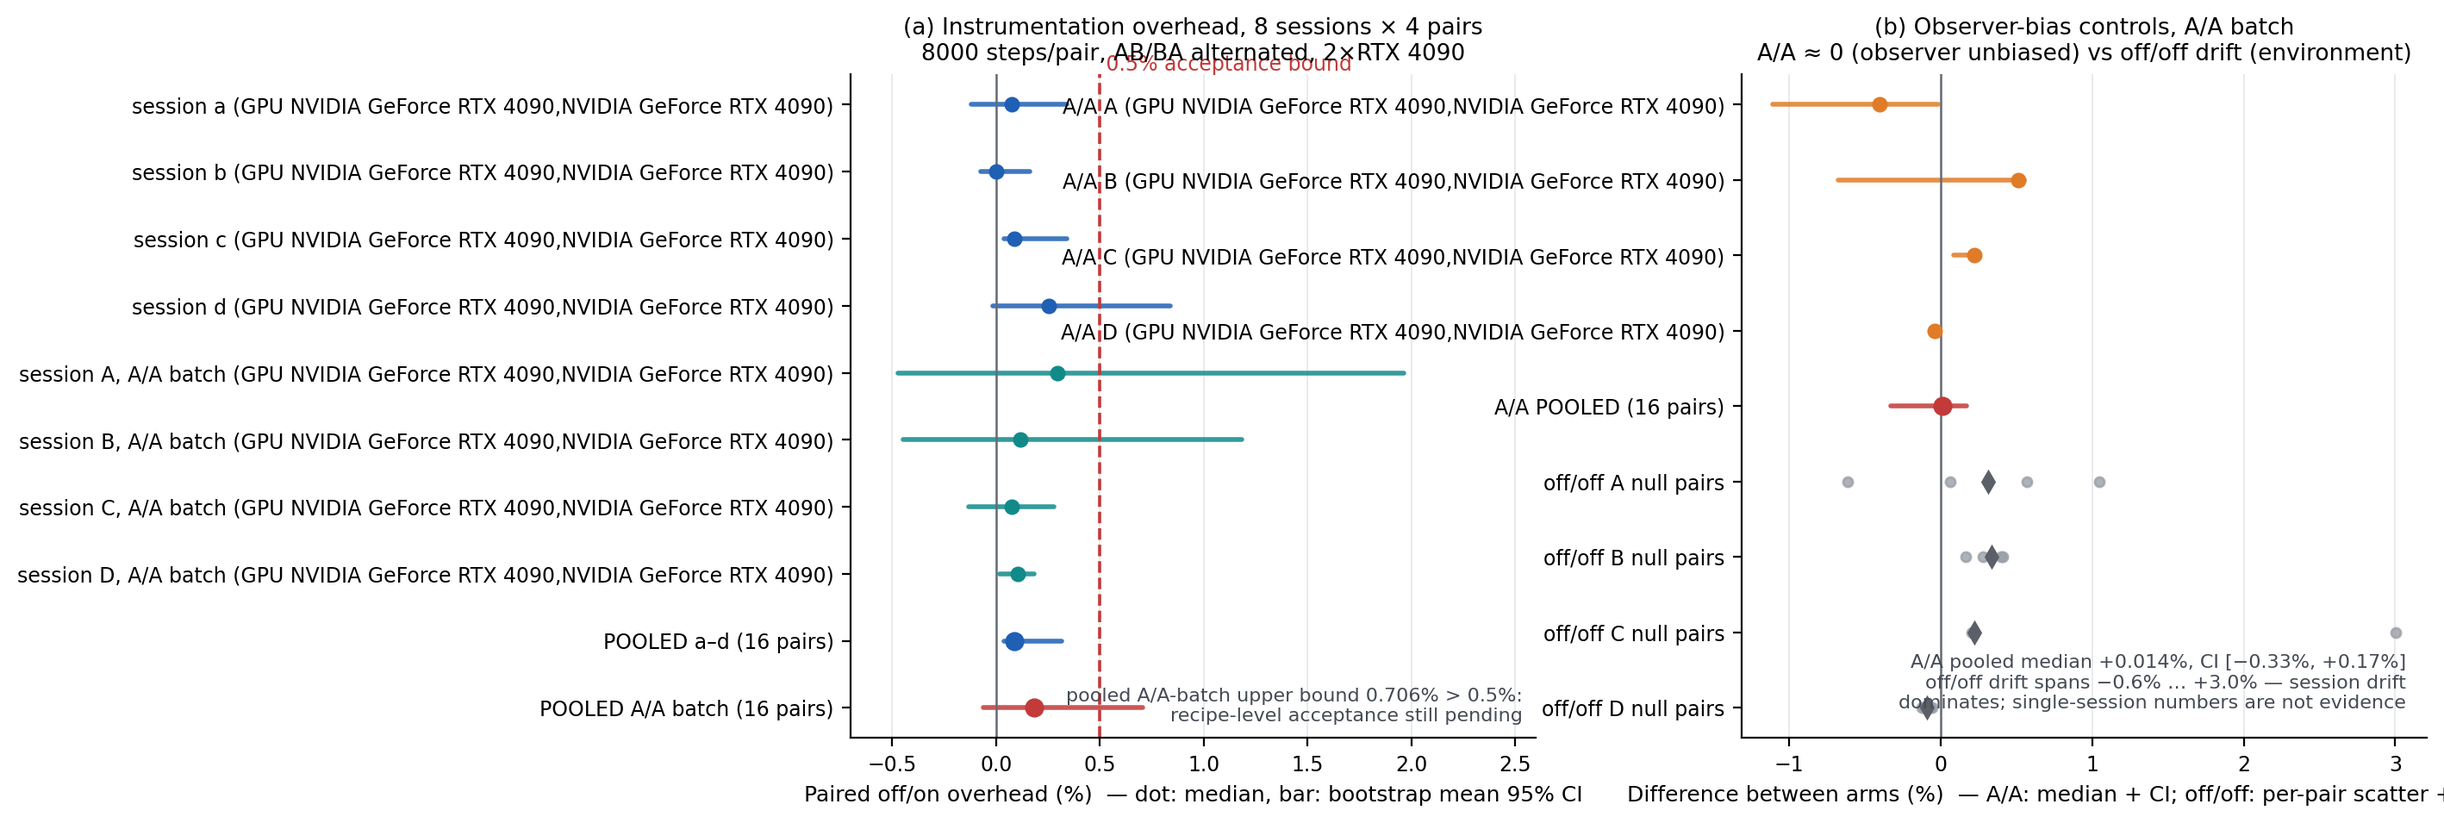
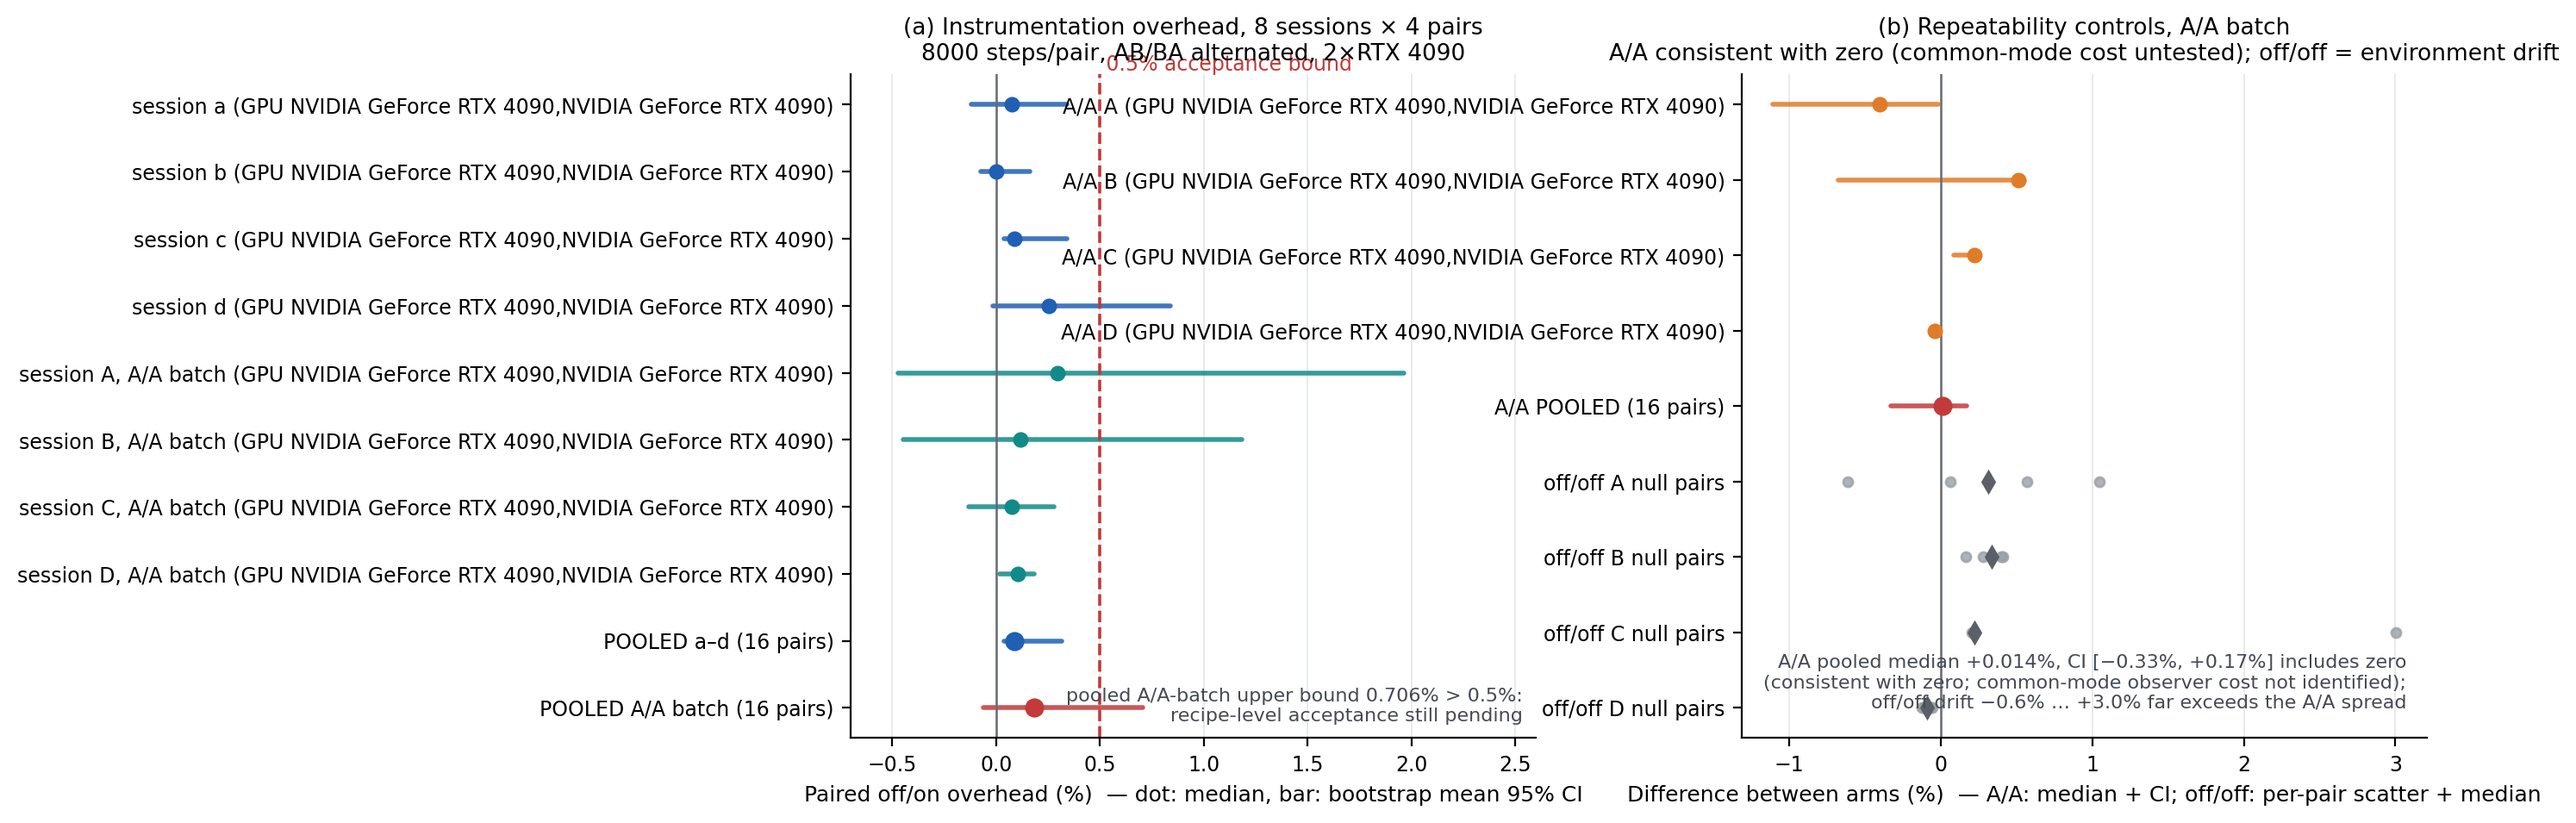
docs(task11): correct forest-chart annotations and A/A wording to consistency-with-zero

diff --git a/demos/task11_straggler/results/multisession-20260924/plot_forest.py b/demos/task11_straggler/results/multisession-20260924/plot_forest.py
@@ -110,12 +110,12 @@ ax2.set_yticklabels(
     [g[0] for g in groups] + [f"off/off {n} null pairs" for n, _ in aa_sessions], fontsize=8.5,
 )
 ax2.set_xlabel("Difference between arms (%)  \u2014 A/A: median + CI; off/off: per-pair scatter + median", fontsize=9)
-ax2.set_title("(b) Observer-bias controls, A/A batch\nA/A \u2248 0 (observer unbiased) vs off/off drift (environment)", fontsize=9.5)
+ax2.set_title("(b) Repeatability controls, A/A batch\nA/A consistent with zero (common-mode cost untested); off/off = environment drift", fontsize=9.5)
 ax2.grid(axis="x", color="#d8dce2", lw=0.6, alpha=0.7)
 ax2.tick_params(labelsize=8.5)
 ax2.text(
     0.97, 0.04,
-    "A/A pooled median +0.014%, CI [\u22120.33%, +0.17%]\noff/off drift spans \u22120.6% \u2026 +3.0% \u2014 session drift\ndominates; single-session numbers are not evidence",
+    "A/A pooled median +0.014%, CI [\u22120.33%, +0.17%] includes zero\n(consistent with zero; common-mode observer cost not identified);\noff/off drift \u22120.6% \u2026 +3.0% far exceeds the A/A spread",
     transform=ax2.transAxes, ha="right", va="bottom", fontsize=8, color="#444a54",
 )
 

diff --git a/demos/task11_straggler/EVIDENCE.md b/demos/task11_straggler/EVIDENCE.md
@@ -47,7 +47,7 @@ Pooled over all 16 pairs: median 0.0861%, mean 0.1641%. Every session median is 
 
 ### A/A control sessions (2026-09-24, added the same day)
 
-The four sessions above were re-run with `--aa-pairs 4`: four additional pairs where **both arms run with the observer active** (`aa-session-A/B/C/D.json`, same protocol, 24,160/24,160 samples per session, zero drops, zero loss differences, zero parameter mismatches). The A/A difference isolates the observer's own timing bias from environment drift, which the off/off null pairs cannot:
+The four sessions above were re-run with `--aa-pairs 4`: four additional pairs where **both arms run with the observer active** (`aa-session-A/B/C/D.json`, same protocol, 24,160/24,160 samples per session, zero drops, zero loss differences, zero parameter mismatches). The A/A difference characterizes repeatability with the observer active on both arms; it cannot identify common-mode observer cost shared by both arms, which the off/off null pairs (environment drift, observer off) cannot substitute for:
 
 | Measure | Pooled A/A (16 trials) | Pooled off/off null (16 trials) |
 | --- | --- | --- |
@@ -55,7 +55,7 @@ The four sessions above were re-run with `--aa-pairs 4`: four additional pairs w
 | Bootstrap mean 95% interval | −0.3332% to +0.1728% | −0.1894% to +3.0036% (one +3.00% outlier in session C) |
 | Range | −1.3455% to +0.5510% | −0.6119% to +3.0036% |
 
-Pooled paired overhead of the off/on pairs from all four A/A sessions (16 pairs; the A/A pairs themselves are pure observer-noise trials and are deliberately not pooled into the overhead estimate): median +0.1844%, bootstrap mean 95% interval −0.0580% to +0.7061%. The A/A median being indistinguishable from zero while off/off pairs drift by tenths of a percent (and occasionally whole percents) supports the claim that the remaining spread is dominated by run-to-run environment drift rather than observer bias. It does **not** by itself bring the pooled overhead's upper bound below 0.5%; the acceptance plan (recipe runs, more pairs) stands.
+Pooled paired overhead of the off/on pairs from all four A/A sessions (16 pairs; the A/A pairs themselves are pure observer-noise trials and are deliberately not pooled into the overhead estimate): median +0.1844%, bootstrap mean 95% interval −0.0580% to +0.7061%. The A/A median being consistent with zero while off/off pairs drift by tenths of a percent (and occasionally whole percents) indicates the remaining spread is dominated by run-to-run environment drift; this control cannot rule out a common-mode observer cost shared by both arms — that is what the off/on comparison addresses. It does **not** by itself bring the pooled overhead's upper bound below 0.5%; the acceptance plan (recipe runs, more pairs) stands.
 
 What the spread says, honestly:
 
